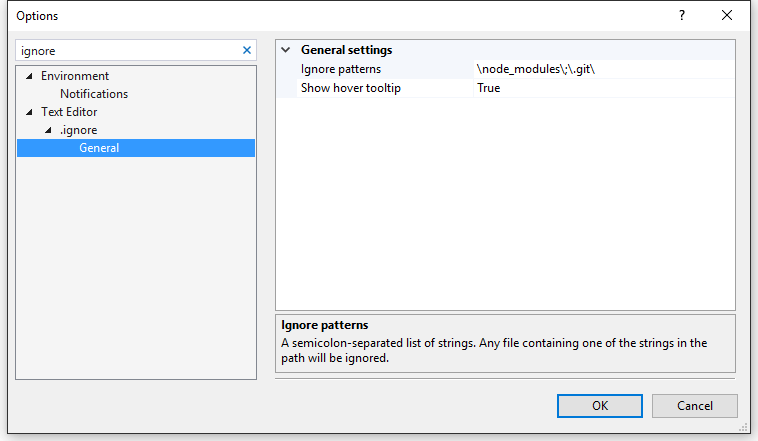
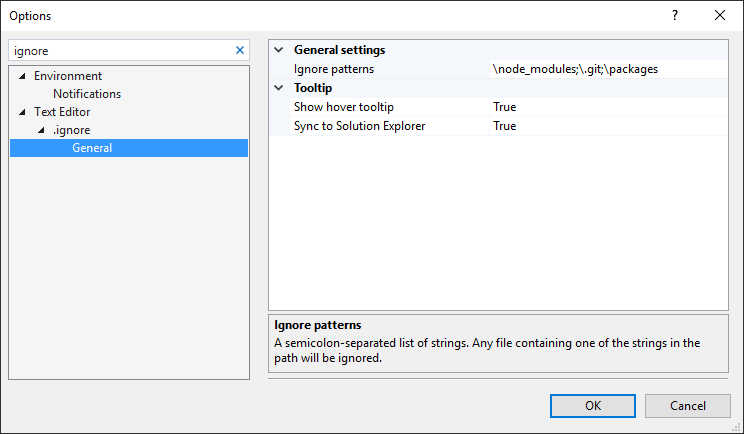
Persist "Sync selected files" in Tools -> Options Fixed #25

diff --git a/src/Models/IgnoreTreeModel.cs b/src/Models/IgnoreTreeModel.cs
@@ -17,7 +17,6 @@ namespace IgnoreFiles.Models
         private HashSet<FileTreeModel> _filterMatches;
         private string _lastSearchText;
         private bool _lastShowAllFiles;
-        private bool _syncToSolutionExplorer;
 
         public IgnoreTreeModel(string rootDirectory, string pattern)
         {
@@ -31,7 +30,6 @@ namespace IgnoreFiles.Models
             SearchIcon = WpfUtil.GetIconForImageMoniker(KnownMonikers.Search, 16, 16);
             ShowAllFilesIcon = WpfUtil.GetIconForImageMoniker(KnownMonikers.ShowAllFiles, 16, 16);
             SyncToSolutionExplorerIcon = WpfUtil.GetIconForImageMoniker(KnownMonikers.Sync, 16, 16);
-            _syncToSolutionExplorer = true;
         }
 
         public ImageSource SyncToSolutionExplorerIcon { get; }
@@ -136,10 +134,10 @@ namespace IgnoreFiles.Models
 
                     FileTreeModel parent = model.Parent;
 
-                    while(parent != null)
+                    while (parent != null)
                     {
                         //If something else has already added our parent, it's already added the whole parent tree, bail.
-                        if(!visibleNodes.Add(parent) && (!explicitMatch || parent.IsExpanded))
+                        if (!visibleNodes.Add(parent) && (!explicitMatch || parent.IsExpanded))
                         {
                             break;
                         }
@@ -191,8 +189,15 @@ namespace IgnoreFiles.Models
 
         public bool SyncToSolutionExplorer
         {
-            get { return _syncToSolutionExplorer; }
-            set { Set(ref _syncToSolutionExplorer, value); }
+            get
+            {
+                return IgnorePackage.Options.SyncToSolutionExplorer;
+            }
+            set
+            {
+                IgnorePackage.Options.SyncToSolutionExplorer = value;
+                IgnorePackage.Options.SaveSettingsToStorage();
+            }
         }
     }
 }

diff --git a/src/Options.cs b/src/Options.cs
@@ -7,18 +7,23 @@ namespace IgnoreFiles
 {
     public class Options : DialogPage
     {
-        // Advanced
         [Category("General settings")]
         [DisplayName("Ignore patterns")]
         [Description("A semicolon-separated list of strings. Any file containing one of the strings in the path will be ignored.")]
         [DefaultValue(@"\node_modules;\.git;\packages")]
         public string IgnorePatterns { get; set; } = @"\node_modules;\.git;\packages";
 
-        [Category("General settings")]
+        [Category("Tooltip")]
         [DisplayName("Show hover tooltip")]
         [Description("Shows tooltip when hovering the mouse over entries in .ignore files.")]
         [DefaultValue(true)]
         public bool ShowTooltip { get; set; } = true;
+
+        [Category("Tooltip")]
+        [DisplayName("Sync to Solution Explorer")]
+        [Description("Automatically sync the selection from the tooltip to Solution Explorer.")]
+        [DefaultValue(true)]
+        public bool SyncToSolutionExplorer { get; set; } = true;
 
         public IEnumerable<string> GetIgnorePatterns()
         {

diff --git a/CHANGELOG.md b/CHANGELOG.md
@@ -1,5 +1,6 @@
 # Roadmap
 
+- [ ] Persist "Sync selected files" in Tools -> Options
 - [ ] Intellisense for file paths
 - [ ] Item templates for most popular .ignore files
 - [ ] Glyph in margin to indicate folders
